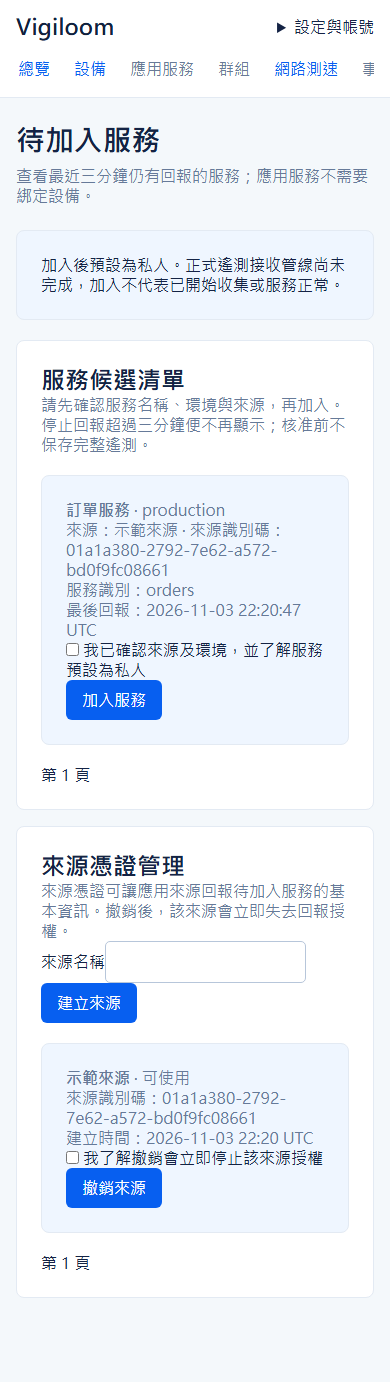
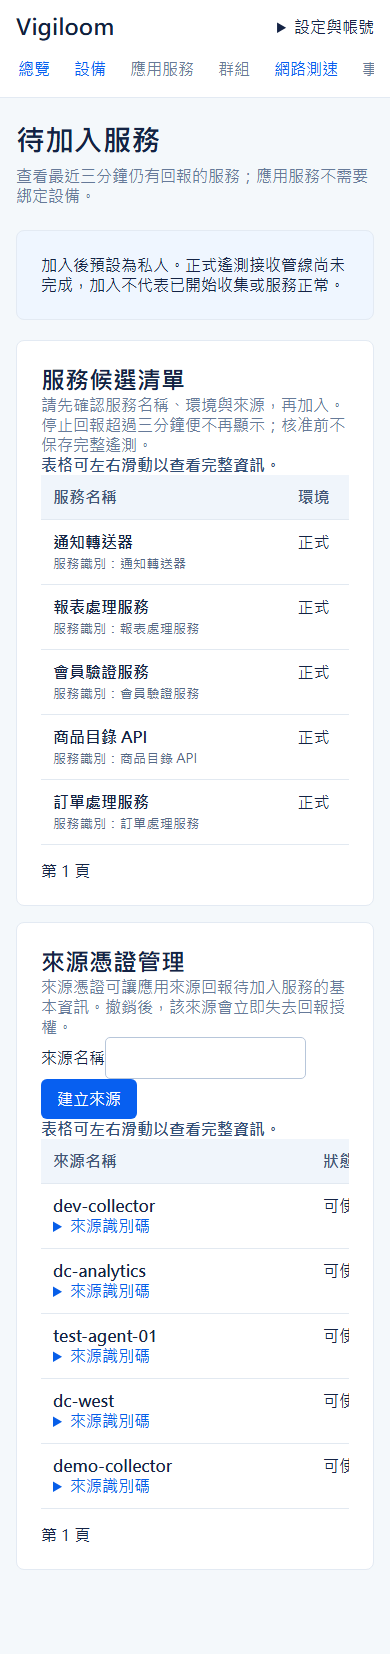
Improve service discovery table layout

diff --git a/src/Hosts/Vigiloom.Web/Components/Pages/ServiceDiscovery.razor.css b/src/Hosts/Vigiloom.Web/Components/Pages/ServiceDiscovery.razor.css
@@ -1,0 +1,13 @@
+.table-scroll { overflow-x: auto; max-width: 100%; }
+table { border-collapse: collapse; width: 100%; min-width: 900px; text-align: left; }
+th { background: #f0f5fb; color: #435778; font-weight: 600; }
+th, td { padding: 12px; border-bottom: 1px solid #e2e9f1; vertical-align: top; }
+td small { color: #536987; overflow-wrap: anywhere; }
+td form { min-width: 200px; }
+td form label { display: block; margin-bottom: 8px; }
+td details > summary { cursor: pointer; color: #075ee8; }
+td details[open] > summary { margin-bottom: 8px; }
+.environment, .timestamp { white-space: nowrap; }
+.scroll-hint { display: none; }
+nav[aria-label$="分頁"] { display: flex; gap: 1rem; padding-top: 1rem; }
+@media (max-width: 1000px) { .scroll-hint { display: block; color: #324f77; font-weight: 600; } }

diff --git a/tests/Vigiloom.Web.Tests/ServiceDiscoveryBrowserTests.cs b/tests/Vigiloom.Web.Tests/ServiceDiscoveryBrowserTests.cs
@@ -26,8 +26,12 @@ public sealed class ServiceDiscoveryBrowserTests(TestContext context)
         await using (var db = await factory.Services.GetRequiredService<IDbContextFactory<ServiceObservabilityDbContext>>().CreateDbContextAsync(token))
             await db.Database.MigrateAsync(token);
         await using var scope = factory.Services.CreateAsyncScope();
-        var source = await scope.ServiceProvider.GetRequiredService<SourceAdministration>().IssueAsync("示範來源", Guid.CreateVersion7(), token);
-        await scope.ServiceProvider.GetRequiredService<CandidateDiscovery>().ObserveAsync(source.SourceId, "orders", "production", "訂單服務", token);
+        var names = new[] { ("demo-collector", "訂單處理服務"), ("dc-west", "商品目錄 API"), ("test-agent-01", "會員驗證服務"), ("dc-analytics", "報表處理服務"), ("dev-collector", "通知轉送器") };
+        foreach (var (name, service) in names)
+        {
+            var source = await scope.ServiceProvider.GetRequiredService<SourceAdministration>().IssueAsync(name, Guid.CreateVersion7(), token);
+            await scope.ServiceProvider.GetRequiredService<CandidateDiscovery>().ObserveAsync(source.SourceId, service, "正式", service, token);
+        }
         using var playwright = await Playwright.CreateAsync();
         await using var browser = await playwright.Chromium.LaunchAsync(new() { Headless = true });
         await using var browserContext = await browser.NewContextAsync(new() { ViewportSize = new() { Width = 1440, Height = 1024 } });
@@ -37,7 +41,7 @@ public sealed class ServiceDiscoveryBrowserTests(TestContext context)
         await page.GetByLabel("密碼", new() { Exact = true }).FillAsync("Strong-Password-123");
         await page.GetByRole(AriaRole.Button, new() { Name = "登入", Exact = true }).ClickAsync();
         await page.GetByRole(AriaRole.Heading, new() { Name = "待加入服務", Exact = true }).WaitForAsync();
-        Assert.Contains("訂單服務", await page.Locator("main").InnerTextAsync());
+        Assert.Contains("訂單處理服務", await page.Locator("main").InnerTextAsync());
         var evidence = Environment.GetEnvironmentVariable("VIGILOOM_SERVICE_EVIDENCE_DIR") ?? Path.Combine(context.TestRunDirectory!, "service-discovery-ui");
         Directory.CreateDirectory(evidence);
         await page.ScreenshotAsync(new() { Path = Path.Combine(evidence, "desktop.png"), FullPage = true });
@@ -45,13 +49,16 @@ public sealed class ServiceDiscoveryBrowserTests(TestContext context)
         await page.ReloadAsync();
         Assert.IsTrue(await page.EvaluateAsync<bool>("() => document.documentElement.scrollWidth <= innerWidth"));
         await page.ScreenshotAsync(new() { Path = Path.Combine(evidence, "mobile.png"), FullPage = true });
-        var confirmation = page.GetByLabel("我已確認來源及環境，並了解服務預設為私人");
+        var expand = page.Locator("summary").Filter(new() { HasTextString = "加入服務" }).First;
+        await expand.FocusAsync();
+        await page.Keyboard.PressAsync("Enter");
+        var confirmation = page.GetByLabel("我已確認來源及環境，並了解服務預設為私人").First;
         await confirmation.FocusAsync();
         await page.Keyboard.PressAsync("Space");
         Assert.IsTrue(await confirmation.IsCheckedAsync());
         await page.Keyboard.PressAsync("Tab");
-        Assert.IsTrue(await page.GetByRole(AriaRole.Button, new() { Name = "加入服務", Exact = true }).EvaluateAsync<bool>("element => document.activeElement === element"));
-        await page.GetByRole(AriaRole.Button, new() { Name = "加入服務", Exact = true }).ClickAsync();
+        Assert.IsTrue(await page.GetByRole(AriaRole.Button, new() { Name = "加入服務", Exact = true }).First.EvaluateAsync<bool>("element => document.activeElement === element"));
+        await page.Keyboard.PressAsync("Enter");
         await page.GetByText("服務已加入，預設為私人；正式遙測接收尚未完成。", new() { Exact = true }).WaitForAsync();
         context.AddResultFile(Path.Combine(evidence, "desktop.png"));
         context.AddResultFile(Path.Combine(evidence, "mobile.png"));

diff --git a/docs/design/req-22-service-discovery.md b/docs/design/req-22-service-discovery.md
@@ -6,4 +6,6 @@ The implementation presents source identifiers and requires a confirmation for a
 
 Isolated SQL/HTTP tests cover two candidates and sources, one-time secret display, approval, revocation and authorization. Browser testing captured [desktop](evidence/req-22/desktop.png) and [390px](evidence/req-22/mobile.png), and exercised approval and keyboard focus in the mobile viewport. Both contain synthetic data only.
 
-Visual design review remains open: the exploration image uses a multi-row table while the current implementation uses individual confirmation cards, and the captures do not have matching content/state. A like-for-like comparison and any resulting revisions are still required. Full keyboard, screen-reader, error-state and concurrent expiry interaction checks also remain outstanding.
+The [initial five-row comparison](evidence/req-22/comparison.png) exposed cramped columns and overly tall confirmation rows. The page was revised to use a compact table, non-wrapping environment and timestamp columns, and expandable confirmations and source identifiers. The [revised comparison](evidence/req-22/comparison-after.png) shows the result at a 1440 × 1024 viewport alongside the normalized concept. Both use five synthetic candidates, but row order, environments, time, session chrome and source status differ; the mock's fictional trust badges are intentionally not implemented. The source image is a general design direction, not an exact representation of the existing navigation or functional authorization model.
+
+Typography and colors retain the existing application tokens (system fonts, dark-blue text, pale blue table headers); the table now follows the concept's column hierarchy. Confirmation and source IDs add necessary interaction and identity details. The concept uses icons which are not necessary for the real data; no source trust status has been invented. The mobile screenshot and interaction test cover no page-level horizontal overflow and keyboard expansion, confirmation and submission. Keyboard scrolling, screen-reader, error-state and concurrent expiry interaction checks remain outstanding; this comparison does not establish pixel fidelity or complete UI acceptance.
